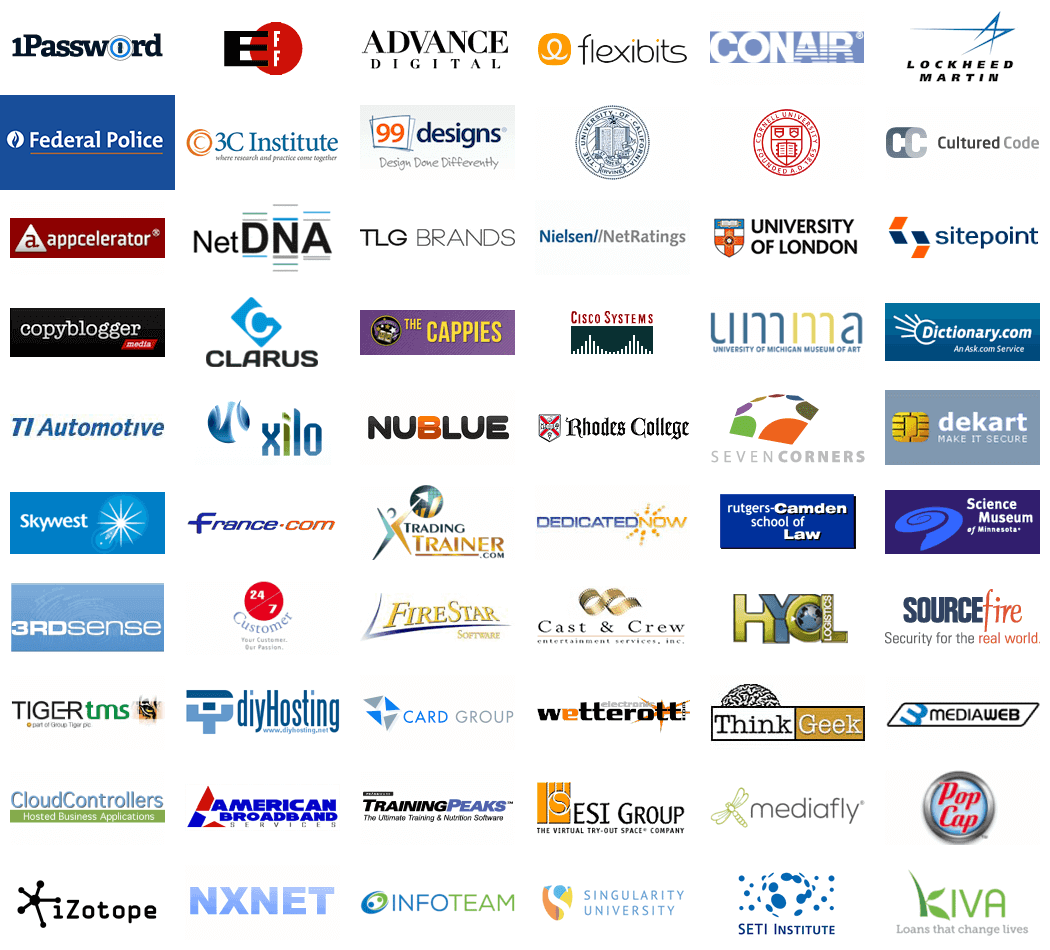
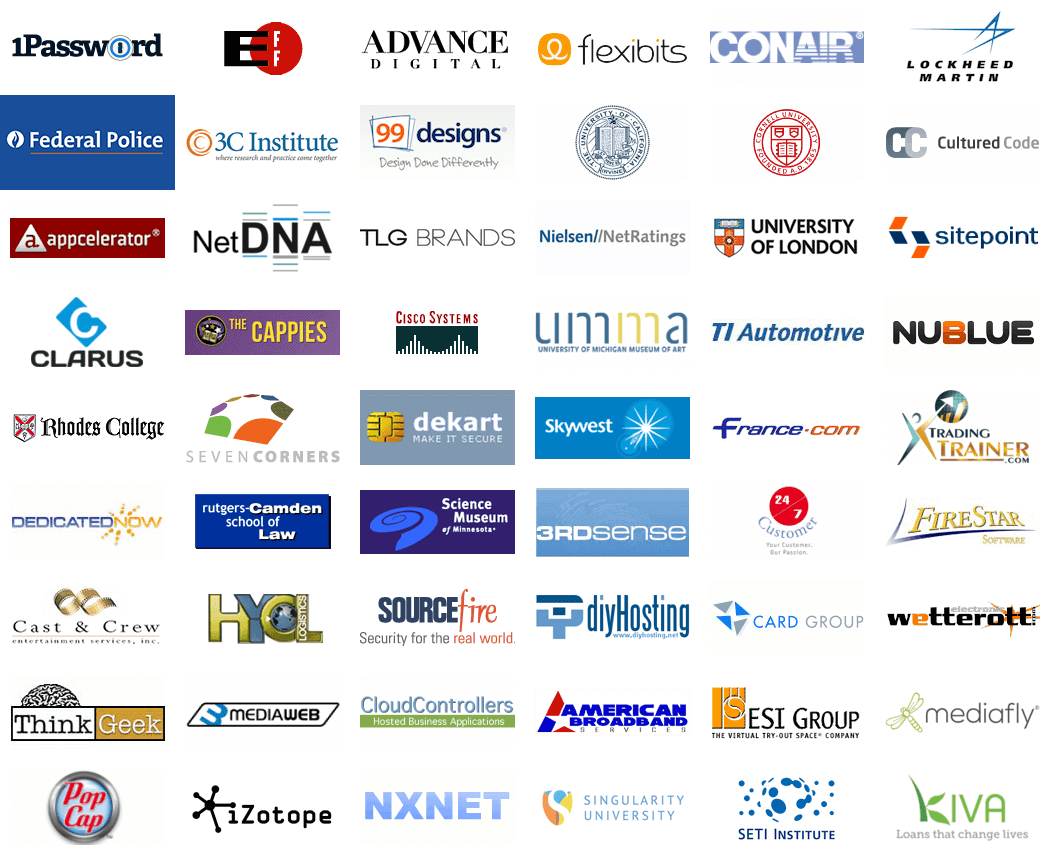
[Clients] Removed old testimonials.

diff --git a/_sass/_cerb.scss b/_sass/_cerb.scss
@@ -966,7 +966,7 @@ button.cerb-button, a.cerb-button {
 
 span.client-logo { 
 	display: inline-block;
-	background: url(/assets/cerb-clients.png?v=20241120);
+	background: url(/assets/cerb-clients.png?v=20250409);
 	width: 175px;
 	height: 95px;
 }
@@ -989,48 +989,42 @@ span.client-tlgbrands-com { background-position: -350px -190px; }
 span.client-netratings-com { background-position: -525px -190px; }
 span.client-london-ac-uk { background-position: -700px -190px; }
 span.client-sitepoint-com { background-position: -875px -190px; }
-span.client-copyblogger-com { background-position: -0px -285px; }
-span.client-clarusmarketing-com { background-position: -175px -285px; }
-span.client-cappies-com { background-position: -350px -285px; }
-span.client-cisco-com { background-position: -525px -285px; }
-span.client-umma-umich-edu { background-position: -700px -285px; }
-span.client-dictionary-com { background-position: -875px -285px; }
-span.client-tiauto-com { background-position: -0px -380px; }
-span.client-xilo-net { background-position: -175px -380px; }
-span.client-nublue-co-uk { background-position: -350px -380px; }
-span.client-rhodes-edu { background-position: -525px -380px; }
-span.client-sevencorners-com { background-position: -700px -380px; }
-span.client-dekart-com { background-position: -875px -380px; }
-span.client-skywest-com-au { background-position: -0px -475px; }
-span.client-france-com { background-position: -175px -475px; }
-span.client-tradingtrainer-com { background-position: -350px -475px; }
-span.client-dedicatednow-com { background-position: -525px -475px; }
-span.client-camlaw-rutgers-edu { background-position: -700px -475px; }
-span.client-smm-org { background-position: -875px -475px; }
-span.client-3rdsense-com { background-position: -0px -570px; }
-span.client-247customer-com { background-position: -175px -570px; }
-span.client-firestarsoftware-com { background-position: -350px -570px; }
-span.client-castandcrew-com { background-position: -525px -570px; }
-span.client-hyclogistics-com { background-position: -700px -570px; }
-span.client-sourcefire-com { background-position: -875px -570px; }
-span.client-tigertms-ae { background-position: -0px -665px; }
-span.client-diyhosting-com { background-position: -175px -665px; }
-span.client-cardlogicgroup-com { background-position: -350px -665px; }
-span.client-watterott-com { background-position: -525px -665px; }
-span.client-thinkgeek-com { background-position: -700px -665px; }
-span.client-3mediaweb-com { background-position: -875px -665px; }
-span.client-cloudcontrollers-com { background-position: -0px -760px; }
-span.client-americanbroadbandservice-com { background-position: -175px -760px; }
-span.client-trainingpeaks-com { background-position: -350px -760px; }
-span.client-esi-group-com { background-position: -525px -760px; }
-span.client-mediafly-com { background-position: -700px -760px; }
-span.client-popcap-com { background-position: -875px -760px; }
-span.client-izotope-com { background-position: -0px -855px; }
-span.client-nxnet-us { background-position: -175px -855px; }
-span.client-infoteam-com { background-position: -350px -855px; }
-span.client-singularityu-org { background-position: -525px -855px; }
-span.client-seti-org { background-position: -700px -855px; }
-span.client-kiva-org { background-position: -875px -855px; }
+span.client-clarusmarketing-com { background-position: -0px -285px; }
+span.client-cappies-com { background-position: -175px -285px; }
+span.client-cisco-com { background-position: -350px -285px; }
+span.client-umma-umich-edu { background-position: -525px -285px; }
+span.client-tiauto-com { background-position: -700px -285px; }
+span.client-nublue-co-uk { background-position: -875px -285px; }
+span.client-rhodes-edu { background-position: -0px -380px; }
+span.client-sevencorners-com { background-position: -175px -380px; }
+span.client-dekart-com { background-position: -350px -380px; }
+span.client-skywest-com-au { background-position: -525px -380px; }
+span.client-france-com { background-position: -700px -380px; }
+span.client-tradingtrainer-com { background-position: -875px -380px; }
+span.client-dedicatednow-com { background-position: -0px -475px; }
+span.client-camlaw-rutgers-edu { background-position: -175px -475px; }
+span.client-smm-org { background-position: -350px -475px; }
+span.client-3rdsense-com { background-position: -525px -475px; }
+span.client-247customer-com { background-position: -700px -475px; }
+span.client-firestarsoftware-com { background-position: -875px -475px; }
+span.client-castandcrew-com { background-position: -0px -570px; }
+span.client-hyclogistics-com { background-position: -175px -570px; }
+span.client-sourcefire-com { background-position: -350px -570px; }
+span.client-diyhosting-com { background-position: -525px -570px; }
+span.client-cardlogicgroup-com { background-position: -700px -570px; }
+span.client-watterott-com { background-position: -875px -570px; }
+span.client-thinkgeek-com { background-position: -0px -665px; }
+span.client-3mediaweb-com { background-position: -175px -665px; }
+span.client-cloudcontrollers-com { background-position: -350px -665px; }
+span.client-americanbroadbandservice-com { background-position: -525px -665px; }
+span.client-esi-group-com { background-position: -700px -665px; }
+span.client-mediafly-com { background-position: -875px -665px; }
+span.client-popcap-com { background-position: -0px -760px; }
+span.client-izotope-com { background-position: -175px -760px; }
+span.client-nxnet-us { background-position: -350px -760px; }
+span.client-singularityu-org { background-position: -525px -760px; }
+span.client-seti-org { background-position: -700px -760px; }
+span.client-kiva-org { background-position: -875px -760px; }
 
 @media screen and (max-width: 600px) {
 	.features {
